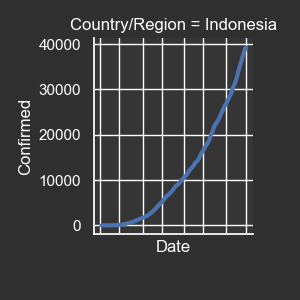
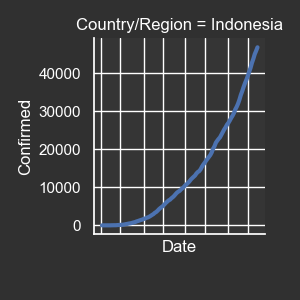
update without kaggle

diff --git a/static/livesync.js b/static/livesync.js
@@ -1,0 +1,241 @@
+var refreshing = false;
+var scrolling = false;
+var elementInFocus = null;
+
+// var asyncConnection = new WebSocket('ws://' + window.DJANGO_LIVESYNC.HOST + ':' + window.DJANGO_LIVESYNC.PORT)
+
+var asyncUrl ='ws://localhost:' + window.DJANGO_LIVESYNC.PORT + '?' + (
+    sessionStorage['livesync_session_id'] ? 'session_id=' + sessionStorage['livesync_session_id'] + '&client_id=' + sessionStorage['livesync_client_id']
+    : '');
+
+var asyncConnection = new WebSocket(asyncUrl);
+
+asyncConnection.onmessage = function(evt) {
+    var element;
+    var evObj = JSON.parse(evt.data);
+    console.log(evObj);
+
+    if (!evObj.action) {
+        return;
+    }
+
+    if (evObj.target) {
+        element = document.getElementByLocator(evObj.target);
+        if (!element) { return; }
+    }
+
+    eventHandlers[evObj.action](element, evObj.payload);
+};
+
+asyncConnection.dispatchAction = function(action, target, payload) {
+    var targetLocator = target ? document.getElementLocator(target) : null
+
+    if (asyncConnection.readyState == 1) {
+        asyncConnection.send(JSON.stringify({
+            action: action,
+            target: targetLocator,
+            payload: payload
+        }));
+    }
+}
+
+window.setInterval(function() {
+    // this will prevent the event to be fired from mirrored browsers.
+    if (!document.hasFocus()) return;
+
+    var newFocus = document.activeElement !== document.body &&
+                   document.activeElement !== document.documentElement &&
+                   document.activeElement;
+
+    if (elementInFocus && elementInFocus !== newFocus) {
+        asyncConnection.dispatchAction('blur', elementInFocus);
+    }
+
+    elementInFocus = newFocus;
+
+}, 500);
+
+/**
+ * Event handlers
+ *
+ */
+document.onscroll = function(evt) {
+    if (scrolling) {
+        scrolling = false;
+        return;
+    }
+
+    asyncConnection.dispatchAction('scroll', null, { x: window.scrollX, y: window.scrollY });
+}
+
+document.onclick = function(evt) {
+    if (!evt.isTrusted) { return; }
+    asyncConnection.dispatchAction(evt.type, evt.getElement());
+}
+
+document.onkeyup = function(evt) {
+    if (!evt.isTrusted) { return; }
+    var element = evt.getElement();
+
+    if (element.tagName == 'INPUT' || element.tagName == 'TEXTAREA') {
+        asyncConnection.dispatchAction('keyup', element, { key: evt.key, value: element.value });
+    }
+}
+
+document.onchange = function(evt) {
+    if (!evt.isTrusted) { return; }
+    var element = evt.getElement();
+
+    if (element.tagName == 'SELECT') {
+        asyncConnection.dispatchAction('change', element, { value: element.value });
+    }
+}
+
+/**
+ * Event triggers
+ *
+ */
+createEventObject = function(type, name) {
+    var evObj = document.createEvent(type);
+    evObj.initEvent(name, true, true);
+    return evObj;
+}
+
+triggerEvent = function(element, type, name) {
+    var evObj = createEventObject(type, name);
+    element.dispatchEvent(evObj);
+}
+
+var eventTriggers = {
+    click: function(element) {
+        triggerEvent(element, 'MouseEvents', 'click');
+    },
+    blur: function (element) {
+        triggerEvent(element, 'Events', 'blur');
+    },
+    change: function (element) {
+        triggerEvent(element, 'Events', 'change');
+    },
+    input: function (element) {
+        triggerEvent(element, 'Events', 'input');
+    }
+}
+
+// /**
+//  * Action handlers
+//  *
+//  */
+var eventHandlers = {
+    scroll: function(el, payload) {
+        scrolling = true;
+        window.scrollTo(payload.x, payload.y);
+    },
+    keyup: function(el, payload) {
+        el.value = payload.value
+        eventTriggers.change(el);
+        eventTriggers.input(el);
+    },
+    change: function(el, payload) {
+        el.value = payload.value
+        eventTriggers.change(el);
+        eventTriggers.input(el);
+    },
+    blur: function(el, payload) {
+        eventTriggers.blur(el);
+    },
+    click: function(el, payload) {
+        eventTriggers.click(el);
+    },
+    refresh: function(el, payload) {
+        sessionStorage.setItem('livesync_reloading', true);
+        document.location.reload(true);
+    },
+    redirect: function(el, payload) {
+        sessionStorage.setItem('livesync_reloading', true);
+        document.location.href = payload.url;
+    },
+    welcome: function(el, payload) {
+        if (payload.current_url && payload.current_url !== document.location.href) {
+            // document.location.href = payload.current_url
+            // return;
+        }
+
+        sessionStorage.setItem('livesync_session_id', payload.session_id);
+        sessionStorage.setItem('livesync_client_id', payload.client_id);
+    },
+    rejoin: function(el, payload) {
+        if (sessionStorage['livesync_reloading']) {
+            sessionStorage.removeItem('livesync_reloading');
+            return;
+        }
+
+        asyncConnection.dispatchAction('redirect', null, { 'url': document.location.href });
+    }
+}
+
+// /**
+//  * DOM Helpers
+//  *
+//  */
+HTMLDocument.prototype.getElementIndex = function(elem) {
+    return Array.prototype.indexOf.call(
+        document.getElementsByTagName(elem.tagName), elem);
+};
+
+HTMLDocument.prototype.getElementLocator = function(elem) {
+    return {
+        tagName: elem.tagName,
+        index:  document.getElementIndex(elem)
+    };
+};
+
+HTMLDocument.prototype.getElementByLocator = function(locator) {
+    return document.getElementsByTagName(locator.tagName)[locator.index];
+};
+
+// /**
+//  * Event Helpers
+//  *
+//  */
+ Event.prototype.getElement = function() {
+     return this.target || this.srcElement;
+ };
+
+// /**
+// * Cookie Helpers
+// *
+// */
+HTMLDocument.prototype.setCookie = function(name, value, days) {
+    var expires = "";
+
+    if (days) {
+        var date = new Date();
+        date.setTime(date.getTime() + (days*24*60*60*1000));
+        expires = "; expires=" + date.toUTCString();
+    }
+
+    document.cookie = name + "=" + value + expires + "; path=/";
+}
+
+HTMLDocument.prototype.removeCookie = function(name) {
+    document.setCookie(name, '', -1);
+}
+
+HTMLDocument.prototype.getCookie = function(name) {
+    var nameEQ = name + "=";
+    var cookies = document.cookie.split(';');
+
+    for(var i = 0; i < cookies.length; i++) {
+        var cookie = cookies[i];
+
+        while (cookie.charAt(0) == ' ') {
+            cookie = cookie.substring(1, cookie.length);
+        }
+
+        if (cookie.indexOf(nameEQ) == 0) {
+            return cookie.substring(nameEQ.length, cookie.length);
+        }
+    }
+
+    return null;
+}

diff --git a/home/views.py b/home/views.py
@@ -3,7 +3,7 @@ from plotly.offline import plot
 import plotly.express as px
 import plotly.graph_objects as go
 import numpy as np
-import kaggle
+#import kaggle
 from newsapi import NewsApiClient 
 import urllib
 from django.conf import settings
@@ -19,8 +19,8 @@ from home.dash_apps.finished_apps import china_sector
 def home(request):
     try:
         #tarik data dari kaggle
-        kaggle.api.authenticate()
-        kaggle.api.dataset_download_files('sudalairajkumar/novel-corona-virus-2019-dataset')
+        #kaggle.api.authenticate()
+        #kaggle.api.dataset_download_files('sudalairajkumar/novel-corona-virus-2019-dataset')
 
         #ambil berita dari API os.environ['MONGO_API_KEY']
         newsapi = NewsApiClient(api_key = settings.NEWSAPI_API_KEY) 
